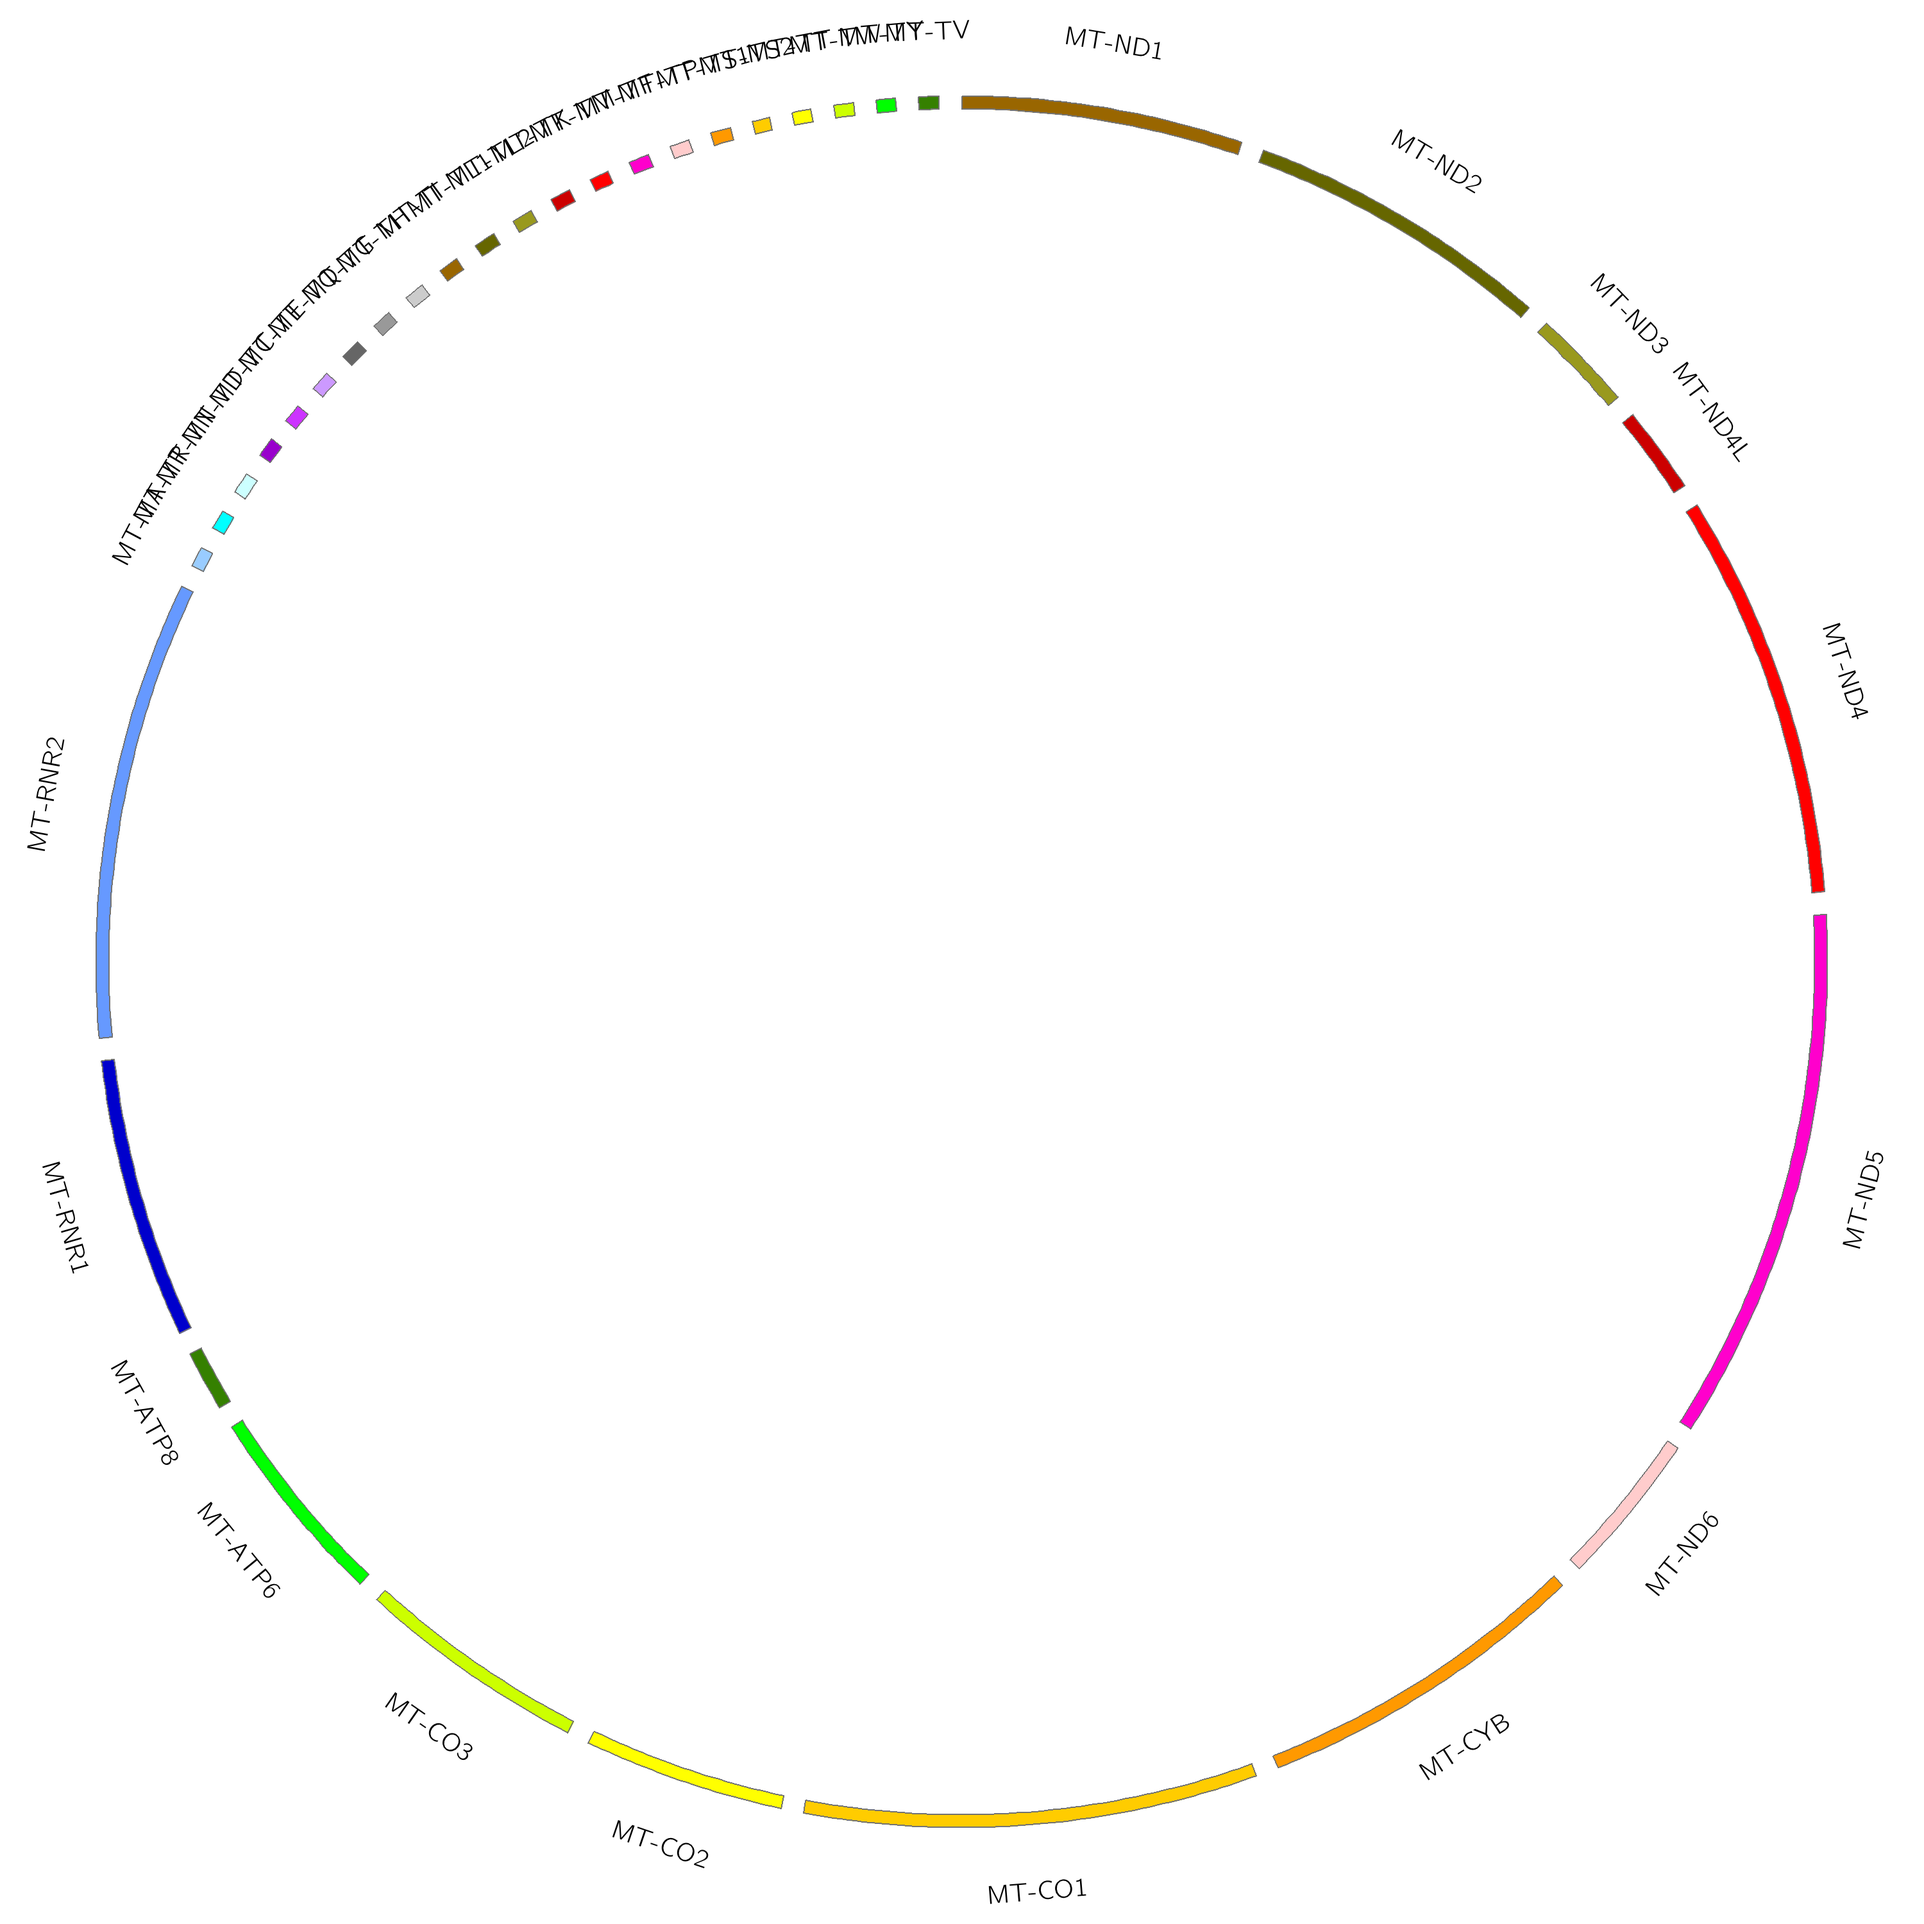
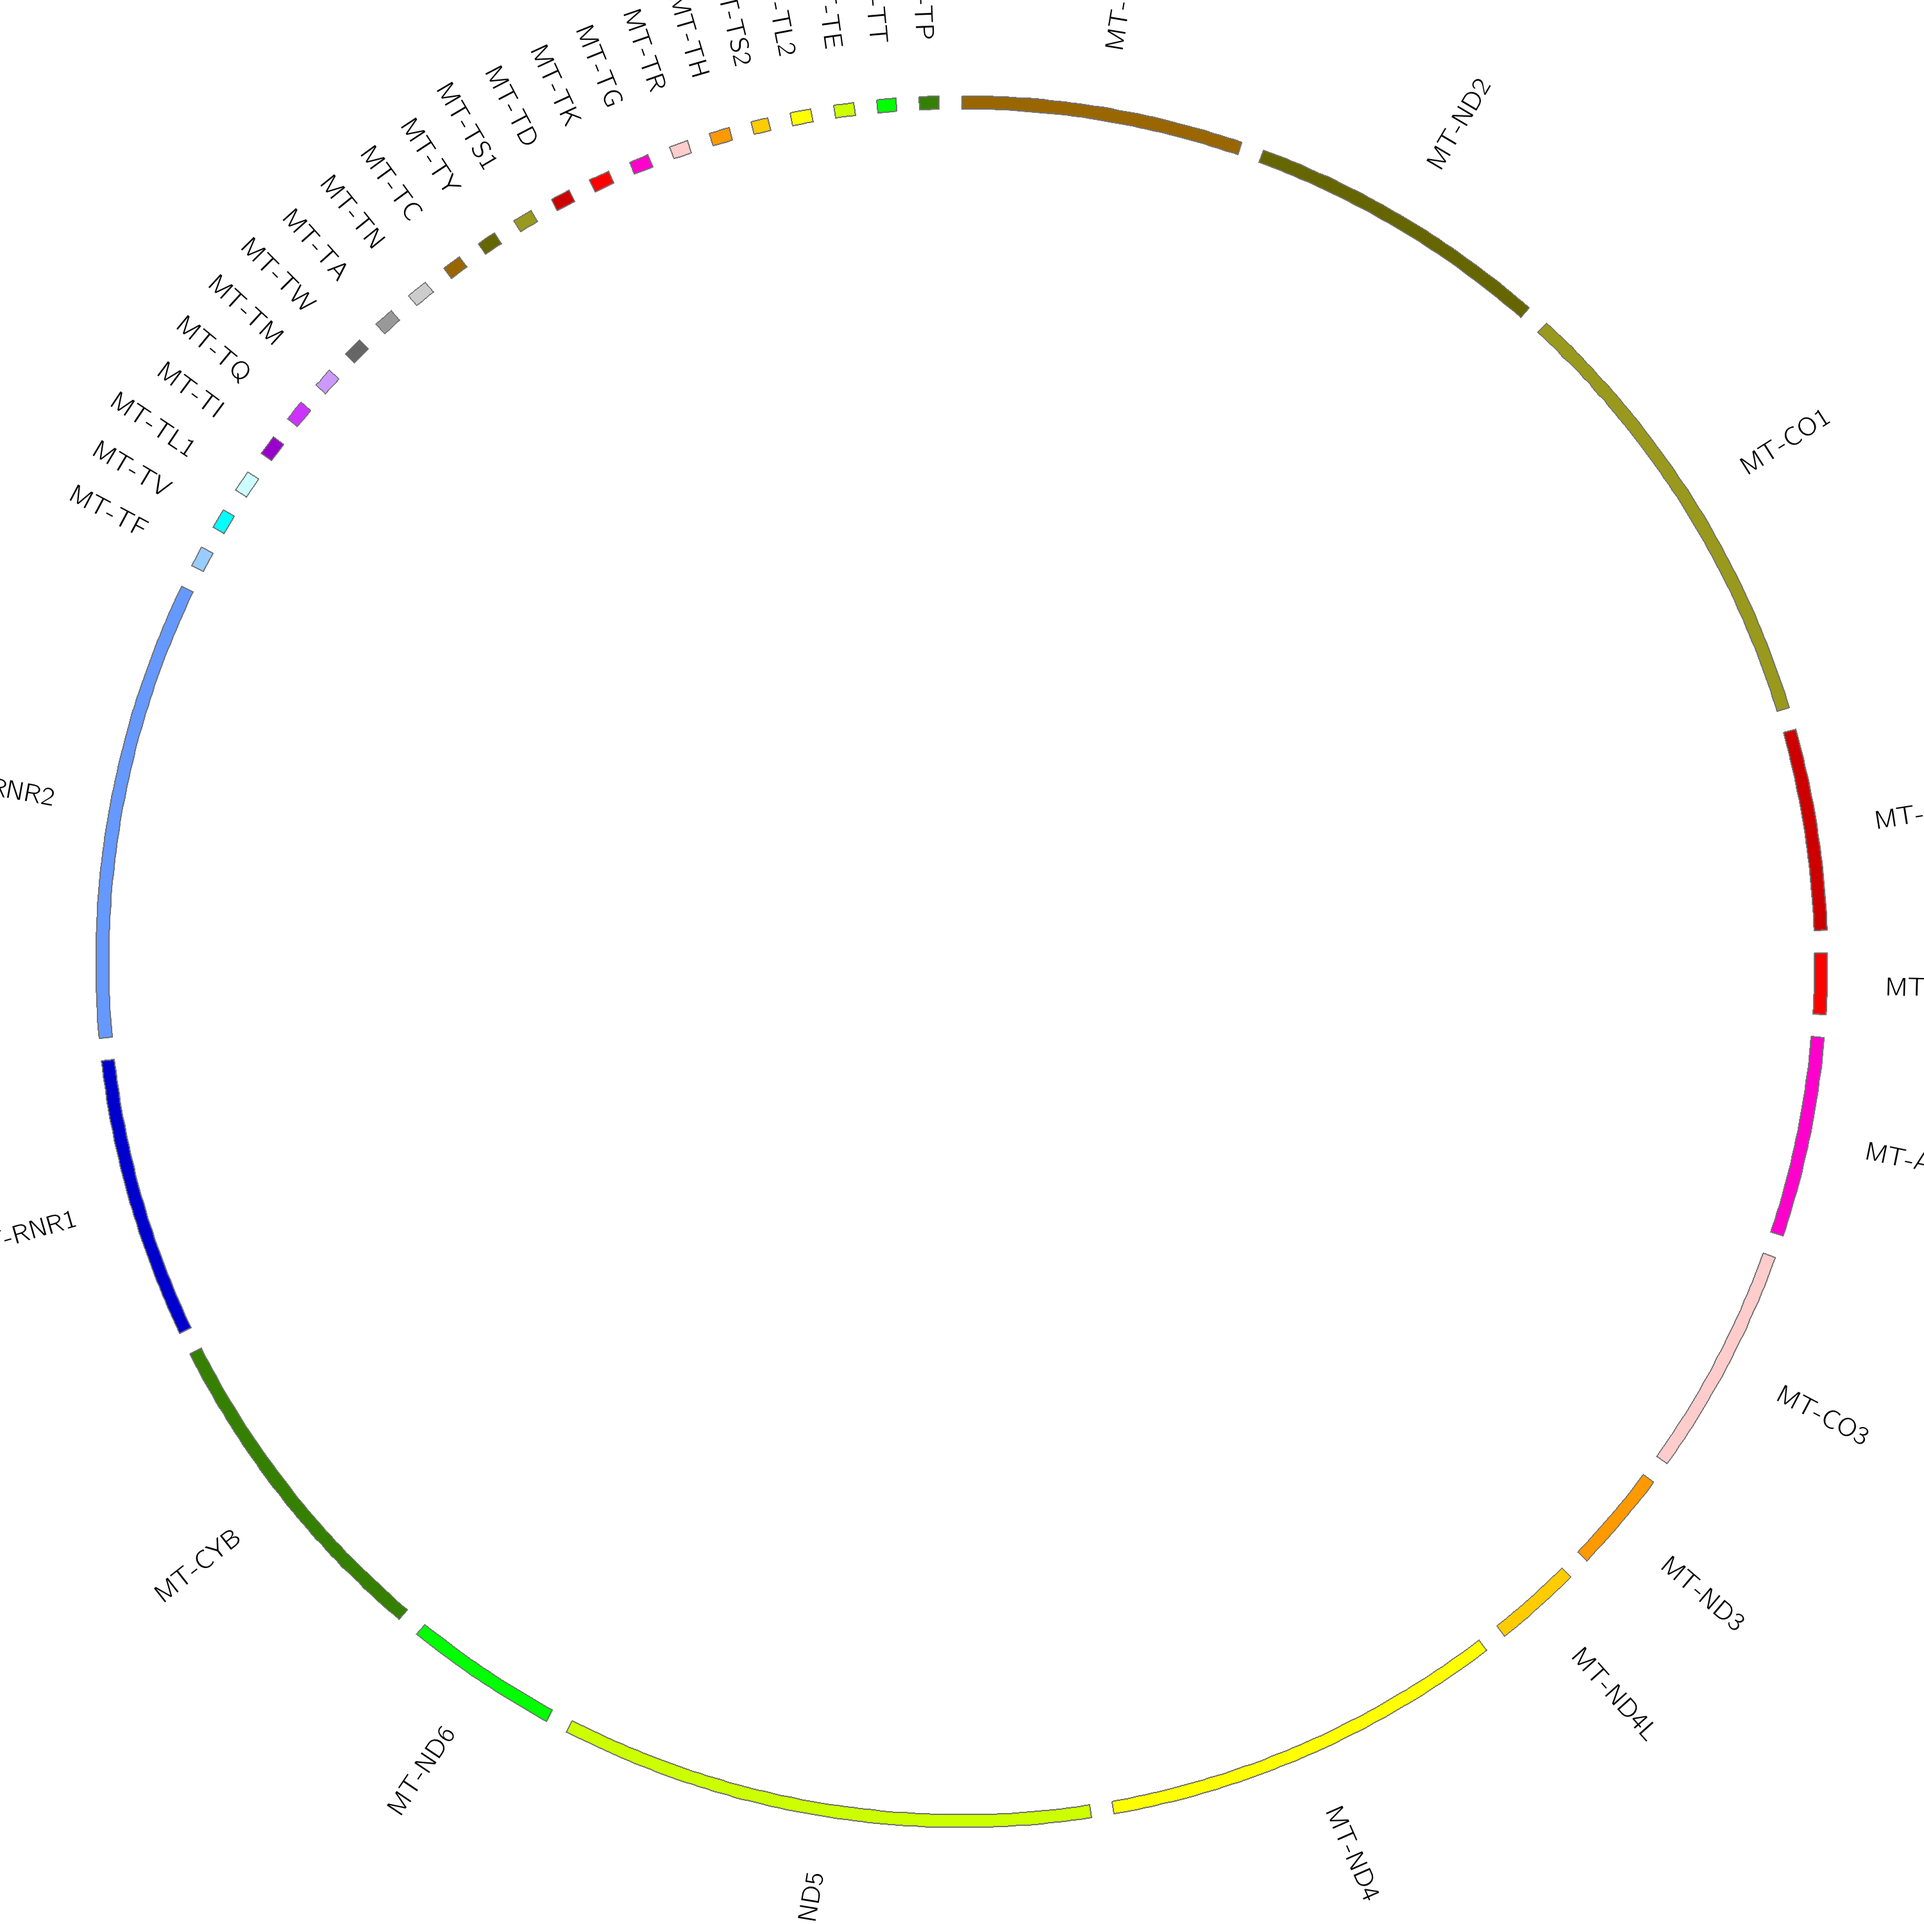
Update karyotype test for tutorial 2

diff --git a/code/create_karyotype.py b/code/create_karyotype.py
@@ -28,7 +28,10 @@ def breakdown_table(table):
             end = nums[1]
             strand = data[d+2]
             if start != "":
-                output.append([gene, start, end, strand])
+                output.append([gene, int(start), end, strand])
+    output = sorted(output, key = lambda x: x[1])
+    for i in range(len(output)):
+        output[i][1] = str(output[i][1])
     return output
 
 def create_karyotype(data):
